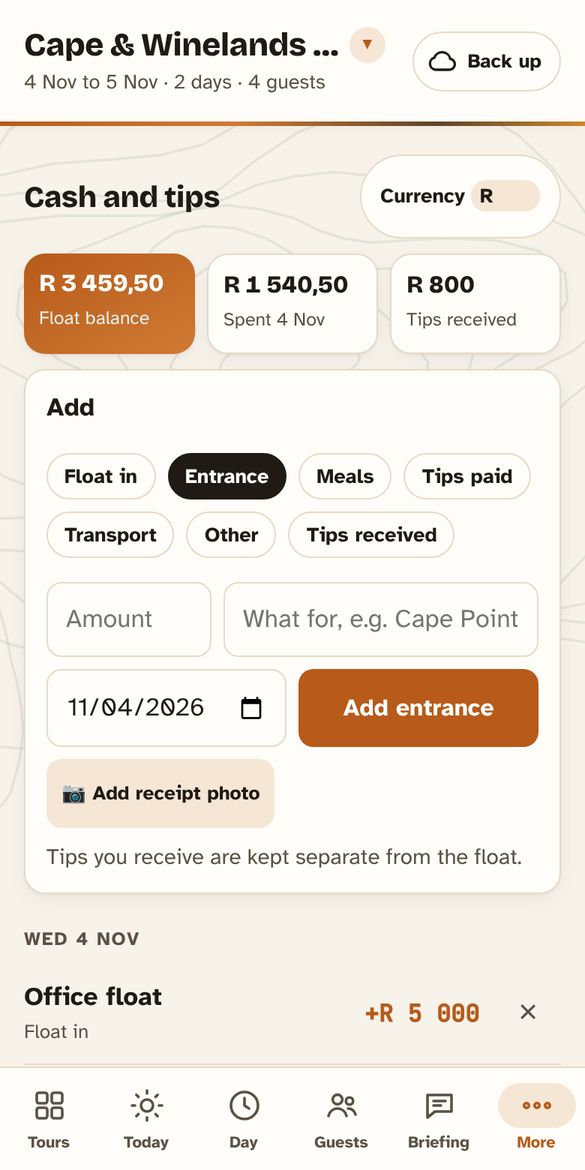
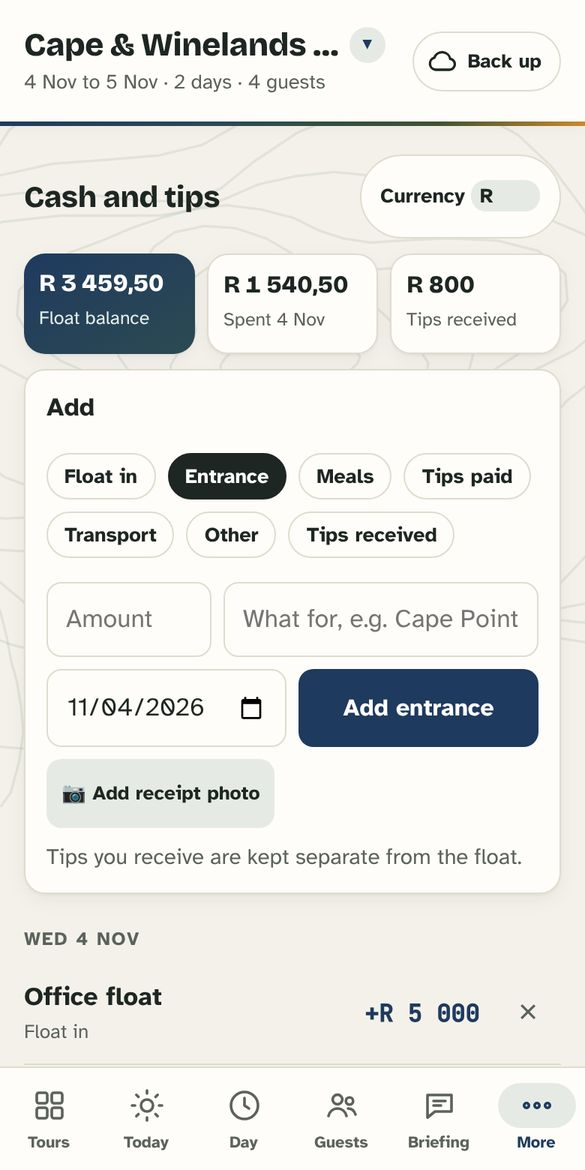
Palette: bush to sky. Green fading corner to corner into navy; ochre for information, red only for problems
Claude-Session: https://claude.ai/code/session_018UiXZK7UZvbaUVGs1HsDqT

diff --git a/site/index.html b/site/index.html
@@ -1,4 +1,4 @@
-<!doctype html><html lang="en-GB"><head><meta charset="utf-8"><meta name="viewport" content="width=device-width,initial-scale=1,viewport-fit=cover"><meta name="theme-color" content="#fffdf9"><meta name="color-scheme" content="light"><link rel="manifest" href="manifest.webmanifest"><link rel="icon" href="icon-192.png"><link rel="apple-touch-icon" href="icon-192.png"><style>:root{padding-top:env(safe-area-inset-top,0px);padding-bottom:env(safe-area-inset-bottom,0px)}[hidden]{display:none!important}</style>
+<!doctype html><html lang="en-GB"><head><meta charset="utf-8"><meta name="viewport" content="width=device-width,initial-scale=1,viewport-fit=cover"><meta name="theme-color" content="#1f3a5f"><meta name="color-scheme" content="light"><link rel="manifest" href="manifest.webmanifest"><link rel="icon" href="icon-192.png"><link rel="apple-touch-icon" href="icon-192.png"><style>:root{padding-top:env(safe-area-inset-top,0px);padding-bottom:env(safe-area-inset-bottom,0px)}[hidden]{display:none!important}</style>
 <title>Guidewise</title>
 <link rel="preconnect" href="https://fonts.googleapis.com">
 <link rel="stylesheet" href="https://fonts.googleapis.com/css2?family=Bricolage+Grotesque:opsz,wght@12..96,600;12..96,800&family=Atkinson+Hyperlegible:wght@400;700&family=JetBrains+Mono:wght@500&display=swap">
@@ -68,17 +68,24 @@ input:focus,textarea:focus,button:focus-visible{outline:2px solid var(--accent);
 .tmore summary::-webkit-details-marker{display:none}
 .tile .tic{font-size:1.2rem;font-weight:800;color:var(--accent)}
 nav button span{font-size:.68rem}
-/* Ochre palette (v15): #B75A1A burnt ochre is the main colour (white text on it passes WCAG AA), umber the second */
-:root{--bg:#f7f2ea;--surface:#fffdf9;--soft:#f6e6d6;--line:#e6dac8;--muted:#5a5144;--ink:#1f1a14;--accent:#b75a1a;--accent-2:#d07a35;--brand:#b75a1a;--ochre:#5e4429;--sand:#f6e9d6;--sky:#2f6ea5;--game:#5f7a2e}
+/* Palette (v16) "bush to sky": bush green #3F5232 fading corner to corner through teal into navy #1F3A5F.
+   Navy carries buttons and links, green means done, ochre #B8862B is for badges and information, red only for real problems. */
+:root{--bg:#f4f1ea;--surface:#fffdf9;--ink:#1d2622;--muted:#5b625c;--line:#dfdccf;--accent:#1f3a5f;--accent-2:#2c4a52;--brand:#1f3a5f;--ochre:#3f5232;--soft:#e5ebe4;--sand:#f6ecd5;--game:#3f5232;--sky:#1f3a5f;--info:#b8862b;--infoBg:#f6ecd5;--alert:#a3262a}
 body{background-image:url(topo-earth.svg)}
-header::after{background:linear-gradient(90deg,var(--brand),#d9923f 55%,var(--ochre))}
-.hero{background:url(topo-w.svg) right -120px center/560px auto no-repeat,linear-gradient(150deg,#b75a1a 0%,#8a4210 100%);box-shadow:0 10px 30px rgb(110 50 15 / .28)}
-.hello{background:linear-gradient(90deg,#b75a1a,#7e3d10)}
-.tbadge.b-live{background:var(--brand);color:#fff}.tbadge.b-next{background:var(--soft);color:var(--accent)}
-.tcard.live{border-color:var(--brand);box-shadow:0 0 0 1px var(--brand),var(--shadow)}
-nav button.on svg{background:#f5ddc8}
+header::after{background:linear-gradient(90deg,#3f5232,#2c4a52 50%,#1f3a5f)}
+.hero{background:url(topo-w.svg) right -120px center/560px auto no-repeat,linear-gradient(135deg,#4a5e3a 0%,#2c4a52 50%,#1f3a5f 100%);box-shadow:0 10px 30px rgb(20 40 50 / .28)}
+.hero .when{color:#f0c48a;opacity:1}
+.hello{background-image:linear-gradient(90deg,#3f5232,#1f3a5f)}
+.alert{background:var(--infoBg);border-left-color:var(--info)}
+.alert.err{background:color-mix(in srgb,var(--alert) 10%,var(--surface));border-left-color:var(--alert)}
+.tbadge.b-live{background:var(--info);color:#1d2622}.tbadge.b-next{background:var(--soft);color:var(--accent)}
+.tcard.live{border-color:#3f5232;box-shadow:0 0 0 1px #3f5232,var(--shadow)}
+.step.hot{border-color:#3f5232;box-shadow:0 0 0 1px #3f5232,var(--shadow)}.step.hot .ic{background:linear-gradient(135deg,#3f5232,#1f3a5f)!important}
+nav button.on svg{background:#e1e8ea}
 .days button.on{background:var(--accent);border-color:var(--accent)}
-.days button .td{background:#fff;color:var(--accent)}
+.days button .td{background:var(--info);color:#1d2622}
+.flag{background:color-mix(in srgb,var(--info) 18%,transparent)}
+.card.lunch,.rs.lunch .bx{border-left-color:var(--info)}
 .arch summary{cursor:pointer;font-weight:700;margin:18px 0 6px;color:var(--muted)}
 .inst{max-width:640px;margin:12px auto 0;box-sizing:border-box;display:flex;flex-wrap:wrap;gap:8px;align-items:center;justify-content:space-between;background:var(--soft);border:1px solid var(--line);border-radius:12px;padding:10px 12px;font-size:.92rem}
 @media (max-width:672px){.inst{margin:12px 16px 0}}

diff --git a/site/guides.html b/site/guides.html
@@ -1,4 +1,4 @@
-<!doctype html><html lang="en-GB"><head><meta charset="utf-8"><meta name="viewport" content="width=device-width,initial-scale=1"><meta name="color-scheme" content="light"><meta name="theme-color" content="#b75a1a">
+<!doctype html><html lang="en-GB"><head><meta charset="utf-8"><meta name="viewport" content="width=device-width,initial-scale=1"><meta name="color-scheme" content="light"><meta name="theme-color" content="#1f3a5f">
 <title>Guidewise · The tour guide's app. Tomorrow, sorted.</title>
 <meta name="description" content="Guidewise is the pocket app for tour guides: day plans that move with you, guests and dietaries, WhatsApp briefings, AI import of itineraries, weather, running late, cash and tips. Works offline.">
 <meta property="og:title" content="Guidewise · Tomorrow, sorted."><meta property="og:description" content="The pocket app for tour guides. Day plan, guests, WhatsApp briefing, AI import, offline."><meta property="og:image" content="img/app-today.jpg">
@@ -6,7 +6,7 @@
 <link rel="preconnect" href="https://fonts.googleapis.com">
 <link rel="stylesheet" href="https://fonts.googleapis.com/css2?family=Bricolage+Grotesque:opsz,wght@12..96,600;12..96,800&family=Atkinson+Hyperlegible:wght@400;700&display=swap">
 <style>
-:root{--bg:#f7f2ea;--surface:#fff;--ink:#0f1a15;--muted:#4a5750;--line:#dde3de;--accent:#b75a1a;--accent-2:#d07a35;--ochre:#5e4429;--soft:#f6e8d6;--sand:#f6e9d6;--sky:#2f6ea5;--plum:#7a4b8c;--rose:#b2465a;--game:#3f7a34;
+:root{--bg:#f4f1ea;--surface:#fff;--ink:#0f1a15;--muted:#4a5750;--line:#dde3de;--accent:#1f3a5f;--accent-2:#2c4a52;--ochre:#3f5232;--soft:#e5ebe4;--sand:#f6e9d6;--sky:#2f6ea5;--plum:#7a4b8c;--rose:#b2465a;--game:#3f7a34;
   --display:"Bricolage Grotesque",ui-sans-serif,system-ui,sans-serif;--body:"Atkinson Hyperlegible",ui-sans-serif,system-ui,sans-serif;--shadow:0 1px 2px rgb(15 26 21 / .05),0 8px 24px rgb(15 26 21 / .07)}
 *{box-sizing:border-box}
 body{margin:0;background:var(--bg) url(topo-earth.svg) right -200px top -40px/900px auto no-repeat;color:var(--ink);font:18px/1.6 var(--body)}
@@ -16,7 +16,7 @@ nav.top{display:flex;align-items:center;justify-content:space-between;gap:12px;p
 .logo{display:flex;align-items:center;gap:10px;font:800 1.35rem var(--display);color:var(--ink);text-decoration:none}
 .logo img{width:36px;height:36px;border-radius:10px}
 .btn{display:inline-flex;align-items:center;justify-content:center;gap:8px;border-radius:999px;padding:13px 22px;font:700 1rem var(--body);text-decoration:none;border:0;cursor:pointer}
-.btn.pri{background:var(--accent);color:#fff;box-shadow:0 8px 20px rgb(110 60 15 / .28)}
+.btn.pri{background:var(--accent);color:#fff;box-shadow:0 8px 20px rgb(20 40 50 / .28)}
 .btn.ghost{background:var(--surface);color:var(--ink);border:1px solid var(--line)}
 .btn.sm{padding:9px 16px;font-size:.92rem}
 .hero{display:grid;gap:28px;align-items:center;padding:24px 0 40px}
@@ -39,7 +39,7 @@ h2{font:800 clamp(1.7rem,4vw,2.3rem)/1.15 var(--display);letter-spacing:-.02em;m
 .f .i{width:44px;height:44px;border-radius:14px;display:grid;place-items:center;font-size:1.3rem;margin-bottom:10px}
 .f b{display:block;font:700 1.08rem var(--body);margin-bottom:4px}
 .f p{margin:0;color:var(--muted);font-size:.95rem}
-.band{background:linear-gradient(150deg,var(--accent),var(--accent-2));color:#fff;border-radius:26px;padding:28px 22px;position:relative;overflow:hidden}
+.band{background:linear-gradient(135deg,#4a5e3a,#2c4a52 50%,#1f3a5f);color:#fff;border-radius:26px;padding:28px 22px;position:relative;overflow:hidden}
 .band::before{content:"";position:absolute;inset:0;background:url(topo-w.svg) right -100px center/700px auto no-repeat;pointer-events:none}
 .band h2,.band p{position:relative}.band p{color:#e6efe9}
 .steps{display:grid;gap:12px;grid-template-columns:repeat(auto-fit,minmax(220px,1fr));position:relative;margin-top:16px}

diff --git a/site/sw.js b/site/sw.js
@@ -1,4 +1,4 @@
-const C='tp-v35';const F=['./','index.html','backup.js','import.js','vendor/supabase-2.45.4.js','privacy.html','setup.html','guides.html','terms.html','manifest.webmanifest','icon-192.png','icon-512.png','topo.svg','topo-w.svg','topo-earth.svg'];
+const C='tp-v36';const F=['./','index.html','backup.js','import.js','vendor/supabase-2.45.4.js','privacy.html','setup.html','guides.html','terms.html','manifest.webmanifest','icon-192.png','icon-512.png','topo.svg','topo-w.svg','topo-earth.svg'];
 self.addEventListener('install',e=>{e.waitUntil(caches.open(C).then(c=>c.addAll(F)));self.skipWaiting()});
 self.addEventListener('activate',e=>{e.waitUntil(caches.keys().then(k=>Promise.all(k.filter(x=>x!==C).map(x=>caches.delete(x)))));self.clients.claim()});
 /* Own files: network first (so a new version shows at once when there is signal), saved copy when offline or slow.

diff --git a/site/privacy.html b/site/privacy.html
@@ -1,7 +1,7 @@
 <!doctype html><html lang="en-GB"><head><meta charset="utf-8"><meta name="viewport" content="width=device-width,initial-scale=1"><meta name="color-scheme" content="light">
 <title>Guidewise privacy notice</title>
 <style>
-:root{--bg:#f7f2ea;--ink:#111a16;--muted:#46534c;--accent:#b75a1a;--line:#d6ddd8}
+:root{--bg:#f4f1ea;--ink:#111a16;--muted:#46534c;--accent:#1f3a5f;--line:#d6ddd8}
 body{background:var(--bg);color:var(--ink);font:17px/1.6 "Atkinson Hyperlegible",ui-sans-serif,system-ui,sans-serif;margin:0}
 main{max-width:640px;margin:0 auto;padding:24px 16px 60px}
 h1{font-size:1.6rem;margin:0 0 4px}h2{font-size:1.15rem;margin:28px 0 8px}

diff --git a/site/setup.html b/site/setup.html
@@ -2,7 +2,7 @@
 <title>Set up Guidewise</title>
 <link rel="icon" href="icon-192.png">
 <style>
-:root{--bg:#f7f2ea;--surface:#fff;--ink:#111a16;--muted:#46534c;--line:#d6ddd8;--accent:#b75a1a;--soft:#f6e8d6;--ochre:#9a6212}
+:root{--bg:#f4f1ea;--surface:#fff;--ink:#111a16;--muted:#46534c;--line:#d6ddd8;--accent:#1f3a5f;--soft:#e5ebe4;--ochre:#9a6212}
 body{background:var(--bg);color:var(--ink);font:17px/1.6 "Atkinson Hyperlegible",ui-sans-serif,system-ui,sans-serif;margin:0}
 main{max-width:640px;margin:0 auto;padding:24px 16px 60px}
 h1{font-size:1.7rem;margin:0}h2{font-size:1.2rem;margin:30px 0 8px}h3{font-size:1rem;margin:16px 0 4px}

diff --git a/site/terms.html b/site/terms.html
@@ -2,7 +2,7 @@
 <title>Guidewise terms and pricing</title>
 <link rel="icon" href="icon-192.png">
 <style>
-:root{--bg:#f7f2ea;--ink:#111a16;--muted:#46534c;--accent:#b75a1a;--line:#d6ddd8}
+:root{--bg:#f4f1ea;--ink:#111a16;--muted:#46534c;--accent:#1f3a5f;--line:#d6ddd8}
 body{background:var(--bg);color:var(--ink);font:17px/1.6 "Atkinson Hyperlegible",ui-sans-serif,system-ui,sans-serif;margin:0}
 main{max-width:640px;margin:0 auto;padding:24px 16px 60px}
 h1{font-size:1.6rem;margin:0 0 4px}h2{font-size:1.15rem;margin:28px 0 8px}

diff --git a/CLAUDE.md b/CLAUDE.md
@@ -10,7 +10,7 @@ Tagline idea: "Guidewise. Tomorrow, sorted."
 ## Files
 - site/: everything public (Netlify publish dir, set in netlify.toml). Nothing outside site/ is served
 - site/index.html: whole app (vanilla JS, no build step)
-- site/sw.js: service worker. Bump cache name tp-vN on every front-end change (currently tp-v35; own files are fetched network-first, cache when offline). New precached files go in its F list
+- site/sw.js: service worker. Bump cache name tp-vN on every front-end change (currently tp-v36; own files are fetched network-first, cache when offline). New precached files go in its F list
 - site/backup.js: cloud backup (sign-in, POPIA consent, passphrase, encrypt, sync). Shares globals with index.html
 - site/import.js: AI import (tab 'import', from Tours > Import from documents or the Docs tab; can use documents already saved in the tour). Loaded after backup.js and uses its globals (sb, user, plan, plus, refresh, SB_URL, SB_KEY)
 - site/vendor/xlsx-mini-0.18.5.js: SheetJS (Apache-2.0), lazy-loaded by import.js for .xlsx/.csv
@@ -21,7 +21,7 @@ Tagline idea: "Guidewise. Tomorrow, sorted."
 
 ## Design (v10)
 - Opens on Tours every time (tab 'home'; first run still shows the welcome). Bottom bar: Tours, Today, Day, Guests, Briefing, More. Tours page groups: On tour now, Coming up, No dates yet, Finished; actions under More per card
-- Palette (v15): ochre. #B75A1A burnt ochre (--brand and --accent) is the main colour for buttons, hero, badges and the header line (white text on it passes WCAG AA, 4.7); deep umber #5E4429 (--ochre var) is the second colour. Icons recoloured; topo-earth.svg background
+- Palette (v16) 'bush to sky': hero fades corner to corner (135deg) bush green #3F5232 through teal #2C4A52 to navy #1F3A5F; navy (--accent/--brand) for buttons and links; green (--ochre var, --game) for done/live; ochre #B8862B (--info) for badges and notices (.alert); red (--alert, .alert.err) only for real problems. Icons recoloured; topo-earth.svg background
 - Was: Today, Day, Guests, Briefing, More (More holds Checklist, Docs, Local intel, Import, All tours, Backup). Tour switcher at the top (tab name + dates ▾ opens #tpanel: tours ordered on tour, upcoming, undated, finished; + New tour, Import, rename, Manage tours). Day chips only on Day/Checklist/Briefing/Docs
 - Today (tab 'today', opening screen): focusDay() = today's tour day, else the next one; hero with now/next; nextSteps() gives up to 4 predictive actions (data-go="tab:dayIndex"); tiles; compact install hint
 - Look (v11): topo.svg / topo-w.svg contour graphics (body and Today hero), green-to-ochre accent line under the header, coloured next-step icons and tiles. Stop types inferred by kindOf() (meal, flight, wildlife, stay, free) colour the timeline
